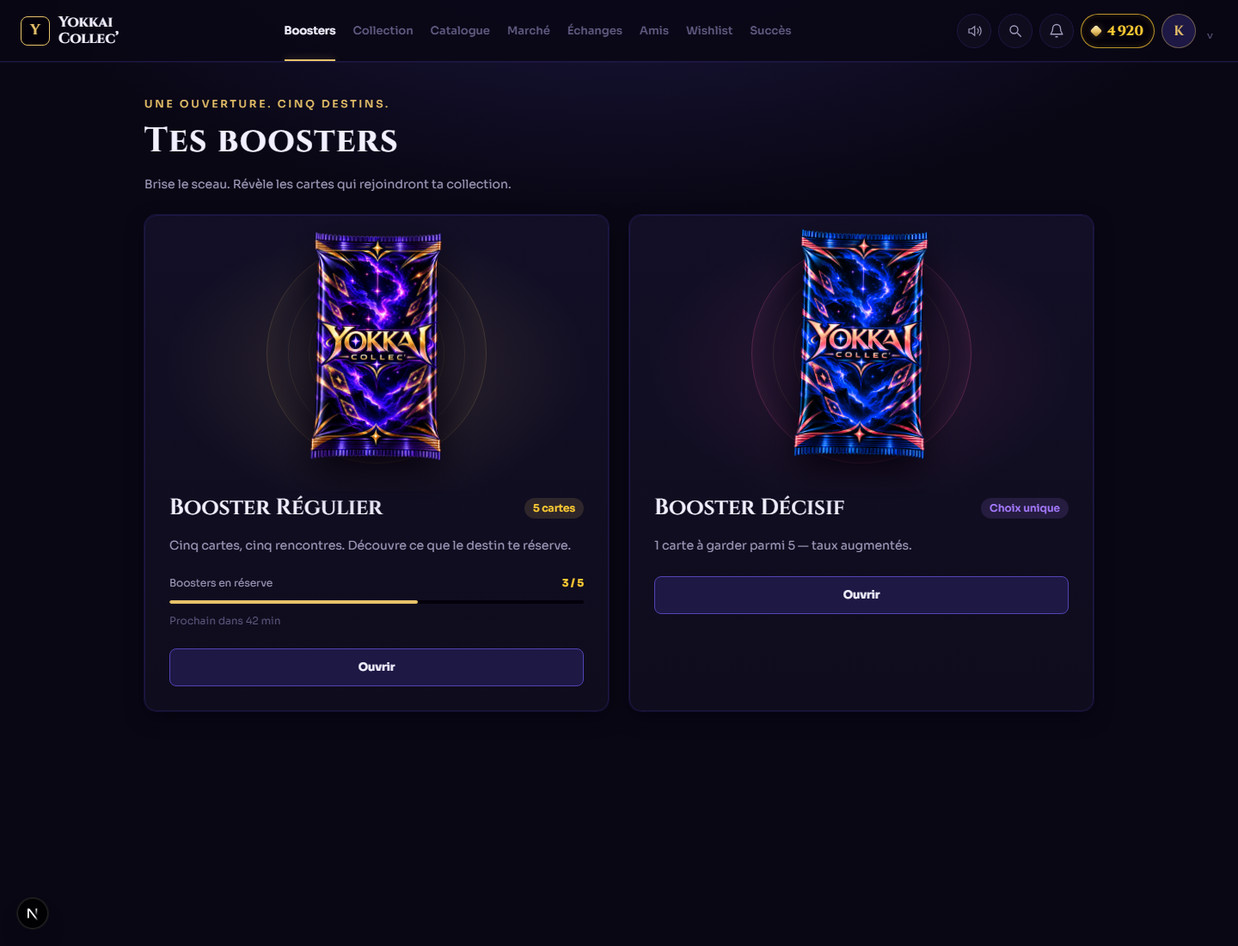
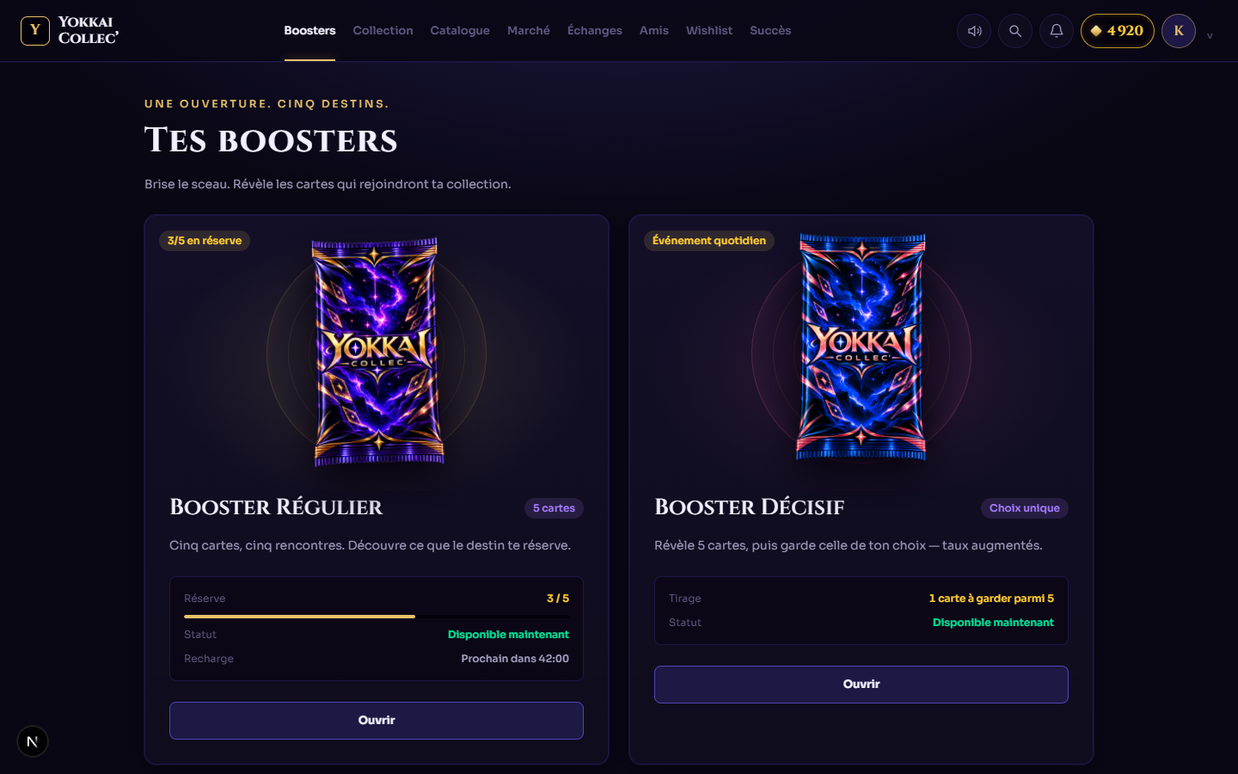
feat: redesign booster opening screens
Phase 5 · Boosters: dress the Regular and Decision pack openings and
finish the selection status cards, without touching the card component,
the flip, or the SR/SSR/LR reveal stages.

- Selection: "{n}/5 en réserve", "Disponible maintenant" / "Prochain
  dans", "1 carte à garder parmi 5", "Revient demain à {heure}"
- Opening: header with progress, 5 slots (3+2 on mobile), franchise
  under each revealed card, "Défausser" per card, "Ajouter à ma
  collection" enabled once all cards are revealed
- Decision: "Garder celle-ci" on each card, confirmation modal, final
  Karas message; no per-card discard
- Preview route simulates a full opening locally (no RPC)

diff --git a/components/boosters.tsx b/components/boosters.tsx
@@ -11,6 +11,15 @@ import type { SfxName } from "@/hooks/use-sfx";
 export type RevealCard = Card & { instanceId: string; shiny?: boolean; isEvolved?: boolean; isNew?: boolean; copies?: number; discarded?: boolean };
 type Sound = SfxName;
 const noopSound = () => {};
+// Formats the server-provided `nextPackAt`; the countdown itself stays computed by Game.
+function decisionReturnLabel(nextPackAt: number) {
+  const date = new Date(nextPackAt);
+  const time = date.toLocaleTimeString("fr-FR", { hour: "2-digit", minute: "2-digit" });
+  const days = Math.round((new Date(date).setHours(0, 0, 0, 0) - new Date().setHours(0, 0, 0, 0)) / 86_400_000);
+  if (days <= 0) return `Revient aujourd’hui à ${time}`;
+  if (days === 1) return `Revient demain à ${time}`;
+  return `Revient le ${date.toLocaleDateString("fr-FR", { day: "numeric", month: "long" })} à ${time}`;
+}
 type Decision = { onKeep: (instanceId: string) => Promise<number>; keptId?: string; busy?: boolean; karasReward?: number };
 
 export function BoosterReveal({ cards, revealed, onReveal, onReturn, onNext, nextDisabled = false, nextLabel = "Prochain booster", decision, onDiscard, onSound }: {
@@ -77,8 +86,9 @@ export function BoosterReveal({ cards, revealed, onReveal, onReturn, onNext, nex
     catch (e) { setError(e instanceof Error ? e.message : "Impossible de détruire cette carte."); }
     finally { setDiscarding(null); }
   }
-  return <section aria-label="Cartes du pack" className="mt-8">
-    <div><h2 className="font-display text-2xl">{decision ? "Un seul choix" : "Révèle tes cartes"}</h2><p role="status" aria-atomic="true" className="mt-2 text-sm text-ink-2">{done ? `${revealed} cartes révélées` : `Touche chaque carte pour la retourner · ${revealed} / ${cards.length}`}</p></div>
+  return <section aria-label="Cartes du pack" className="yk-reveal-screen">
+    <header className="yk-reveal-header"><div><p className="eyebrow">{decision ? "Booster Décisif" : "Booster Régulier"}</p><h2 className="mt-2 font-display text-2xl">{decision ? choosing ? "Fais ton choix décisif" : "Un seul choix" : "Révèle tes cartes"}</h2><p role="status" aria-atomic="true" className="mt-2 text-sm text-ink-2">{choosing ? "Toutes les cartes sont révélées · garde celle de ton choix" : done ? `${revealed} cartes révélées` : `Touche le paquet pour retourner chaque carte · ${revealed} / ${cards.length}`}</p></div>
+      <ol className="yk-reveal-progress" aria-hidden="true">{cards.map((card, i) => <li key={card.instanceId} className={i < revealed ? "yk-progress-done" : i === revealed ? "yk-progress-current" : undefined} />)}</ol></header>
     {!done && <div className={`yk-reveal-stage ${faceUp && current?.rarity === "SSR" ? "yk-reveal-ssr" : ""} ${faceUp && current?.rarity === "SR" ? "yk-reveal-sr" : ""} ${faceUp && current?.rarity === "LR" ? "yk-reveal-lr" : ""} ${faceUp && current?.shiny ? "yk-reveal-shiny" : ""}`}>
       {faceUp && current?.rarity === "SSR" && <p className="yk-callout yk-ssr-callout">✦ Rareté Exceptionnelle ✦</p>}
       {faceUp && current?.rarity === "LR" && <p className="yk-callout yk-lr-callout">✦ Invocation Légendaire ✦</p>}
@@ -223,23 +233,26 @@ export function BoosterReveal({ cards, revealed, onReveal, onReturn, onNext, nex
       </div>
       <p className="mt-8 text-center text-xs text-ink-3">{revealLocked ? "L’énergie s’accumule…" : faceUp ? "Touchez pour ranger la carte" : "Touchez le paquet pour révéler une carte"}</p>
     </div>}
-    {choosing && <div className="my-8 rounded-panel border border-rarity-ssr/40 bg-rarity-ssr/10 p-5 text-center"><p className="font-semibold text-rarity-ssr">Un seul choix</p><p className="mt-2 text-sm text-ink-2">Choisis la carte qui rejoindra ta collection — les {cards.length - 1} autres seront perdues.</p></div>}
-    <ol className="yk-reveal-grid">{cards.map((card,i) => {
+    {choosing && <div className="yk-decision-banner"><p className="font-display text-lg text-karas">Choisis ta carte décisive</p><p className="mt-1 text-sm text-ink-2">Une seule rejoindra ta collection — les {cards.length - 1} autres seront perdues.</p></div>}
+    <ol className={`yk-reveal-grid ${choosing ? "yk-reveal-grid-choosing" : ""}`}>{cards.map((card,i) => {
       const isDiscarded = discarded.has(card.instanceId);
       const lost = isDiscarded || (!!decision?.keptId && decision.keptId !== card.instanceId);
       const kept = decision?.keptId === card.instanceId;
-      return <li key={card.instanceId} className={`yk-reveal-slot ${i < revealed ? "yk-filled" : ""} ${pick === card.instanceId && choosing ? "yk-picked" : ""} ${lost ? "yk-lost" : ""}`}>
-        {i < revealed ? <><button type="button" disabled={!choosing || confirming || isDiscarded} aria-pressed={choosing ? pick === card.instanceId : undefined} aria-label={choosing ? `Choisir ${card.name}` : `${card.name}, ${card.rarity}`} onClick={() => setPick(card.instanceId)} className="block w-full rounded-card text-left disabled:cursor-default" style={choosing && pick && pick !== card.instanceId ? {opacity:.55} : undefined}><YokaiCard {...card} />{lost && <span className="yk-lost-stamp">{isDiscarded ? "DÉTRUITE" : "PERDUE"}</span>}</button><div className="mt-3 flex min-h-10 flex-wrap justify-center gap-1">{kept ? <StatusPill>GARDÉE</StatusPill> : choosing && pick === card.instanceId ? <StatusPill>À GARDER</StatusPill> : !isDiscarded && onDiscard ? <Button variant="danger" disabled={!!discarding} onClick={() => setDiscardCandidate(card)} className="px-4 py-2 text-xs">{discarding === card.instanceId ? "Destruction…" : "Détruire"}</Button> : card.isNew ? <StatusPill>NEW</StatusPill> : card.copies && card.copies > 1 ? <span className="text-[10px] text-ink-3">Doublon ×{card.copies}</span> : null}</div></> : <span className="yk-slot-number">{String(i + 1).padStart(2,"0")}</span>}
+      const franchise = card.anime?.trim() || card.category;
+      return <li key={card.instanceId} style={{ "--slot-i": i } as CSSProperties} className={`yk-reveal-slot ${i < revealed ? "yk-filled" : ""} ${i === revealed && !done ? "yk-slot-next" : ""} ${pick === card.instanceId && choosing ? "yk-picked" : ""} ${lost ? "yk-lost" : ""} ${kept ? "yk-kept" : ""}`}>
+        {i < revealed ? <><button type="button" disabled={!choosing || confirming || isDiscarded} aria-pressed={choosing ? pick === card.instanceId : undefined} aria-label={choosing ? `Choisir ${card.name}` : `${card.name}, ${card.rarity}`} onClick={() => setPick(card.instanceId)} className="yk-reveal-card block w-full rounded-card text-left disabled:cursor-default" style={choosing && pick && pick !== card.instanceId ? {opacity:.55} : undefined}><YokaiCard {...card} />{lost && <span className="yk-lost-stamp">{isDiscarded ? "DÉFAUSSÉE" : "PERDUE"}</span>}</button>
+          <p className="yk-reveal-caption" title={franchise}>{franchise}</p>
+          <div className="yk-reveal-actions">{kept ? <StatusPill>GARDÉE</StatusPill> : choosing ? <Button variant={pick === card.instanceId ? "primary" : "secondary"} disabled={decision.busy || confirming} onClick={() => { setPick(card.instanceId); setConfirm(true); }} className="yk-slot-button">Garder celle-ci</Button> : !isDiscarded && onDiscard ? <Button variant="danger" disabled={!!discarding} onClick={() => setDiscardCandidate(card)} className="yk-slot-button">{discarding === card.instanceId ? "Défausse…" : "Défausser"}</Button> : lost ? null : card.isNew ? <StatusPill>NEW</StatusPill> : card.copies && card.copies > 1 ? <span className="text-[10px] text-ink-3">Doublon ×{card.copies}</span> : null}</div></> : <span className="yk-slot-placeholder"><span className="yk-slot-number">{String(i + 1).padStart(2,"0")}</span><span className="yk-slot-hint">{i === revealed ? "Suivante" : "En attente"}</span></span>}
       </li>;
     })}</ol>
     {error && <p role="alert" className="mt-5 text-center text-sm text-danger">{error}</p>}
-    {choosing && <div className="mt-8 text-center"><Button disabled={!chosen || decision.busy || confirming} onClick={() => setConfirm(true)}>Garder cette carte</Button></div>}
-    {done && !choosing && <div className="mt-8 rounded-panel border border-veil bg-surface p-6 text-center"><h2 className="font-display text-2xl">{decision ? `Carte ajoutée à ta collection · +${decision.karasReward ?? 0} Karas depuis les cartes non conservées` : "L’invocation est complète"}</h2><div className="my-5 flex flex-wrap justify-center gap-2">{[...new Set(cards.map(c => c.rarity))].map(r => <StatusPill key={r}>{r} ×{cards.filter(c=>c.rarity===r).length}</StatusPill>)}</div>{cards.every(c => c.isNew !== undefined) && <p className="mb-5 text-sm text-ink-2">{cards.filter(c => c.isNew && (!decision || c.instanceId === decision.keptId)).length} nouvelle(s) carte(s)</p>}<div className="flex flex-wrap justify-center gap-3">{onNext&&<Button disabled={nextDisabled} onClick={onNext}>{nextLabel}</Button>}<Link ref={completeLink} href="/collection" className="yk-button yk-button-secondary">Voir ma collection</Link><Button variant="secondary" onClick={onReturn}>Retour aux boosters</Button></div></div>}
+    {!done && !decision && <div className="yk-reveal-footer"><Button disabled>Ajouter à ma collection</Button><p className="text-xs text-ink-3">Révèle les {cards.length} cartes pour valider ton booster.</p></div>}
+    {done && !choosing && <div className={`yk-reveal-summary ${decision ? "yk-reveal-summary-decision" : ""}`}><h2 className="font-display text-2xl">{decision ? `Carte ajoutée à ta collection · +${decision.karasReward ?? 0} Karas depuis les cartes non conservées` : "L’invocation est complète"}</h2><div className="my-5 flex flex-wrap justify-center gap-2">{[...new Set(cards.map(c => c.rarity))].map(r => <StatusPill key={r}>{r} ×{cards.filter(c=>c.rarity===r).length}</StatusPill>)}</div>{cards.every(c => c.isNew !== undefined) && <p className="mb-5 text-sm text-ink-2">{cards.filter(c => c.isNew && (!decision || c.instanceId === decision.keptId)).length} nouvelle(s) carte(s)</p>}<div className="flex flex-wrap justify-center gap-3"><Link ref={completeLink} href="/collection" className="yk-button yk-button-primary">{decision ? "Voir ma collection" : "Ajouter à ma collection"}</Link>{onNext&&<Button variant="secondary" disabled={nextDisabled} onClick={onNext}>{nextLabel}</Button>}<Button variant="secondary" onClick={onReturn}>Retour aux boosters</Button></div></div>}
     <Modal open={!!spot} onClose={() => setSpot(null)} title={spot?.shiny ? "✦ Invocation Shiny ✦" : "Invocation légendaire"} className={`yk-invocation ${spot?.shiny ? "yk-invocation-shiny" : ""}`}>
       {spot && <div className="relative z-10 flex flex-col items-center gap-6"><div className="yk-invoked-card"><YokaiCard {...spot} /></div><h3 className="font-display text-[clamp(28px,4vw,44px)]">{spot.name}</h3>{spot.isNew && <StatusPill>NEW</StatusPill>}<Button variant="secondary" onClick={() => setSpot(null)}>Toucher pour continuer</Button></div>}
     </Modal>
-    <Modal open={confirm} onClose={() => { if (!confirming) setConfirm(false); }} title={`Garder ${chosen?.name || "cette carte"} ?`}>{chosen && <><div className="mx-auto w-40"><YokaiCard {...chosen} /></div><p className="my-6 text-center text-sm text-ink-2">Garder définitivement cette carte et perdre les {cards.length - 1} autres ?</p>{error && <p role="alert" className="mb-4 text-danger">{error}</p>}<div className="flex flex-wrap justify-center gap-3"><Button variant="secondary" disabled={confirming} onClick={() => setConfirm(false)}>Retour</Button><Button disabled={decision?.busy || confirming} onClick={keep}>{confirming ? "Confirmation…" : "Confirmer mon choix"}</Button></div></>}</Modal>
-    <Modal open={!!discardCandidate} onClose={() => { if (!discarding) setDiscardCandidate(null); }} title="Détruire cette carte ?">{discardCandidate && <><p className="mb-6 text-sm text-ink-2">Cette action est définitive.</p><div className="flex justify-end gap-3"><Button variant="secondary" disabled={!!discarding} onClick={() => setDiscardCandidate(null)}>Annuler</Button><Button variant="danger" disabled={!!discarding} onClick={() => void discard(discardCandidate.instanceId)}>{discarding ? "Destruction…" : "Détruire"}</Button></div></>}</Modal>
+    <Modal open={confirm} onClose={() => { if (!confirming) setConfirm(false); }} title={`Garder ${chosen?.name || "cette carte"} ?`}>{chosen && <><div className="mx-auto w-40"><YokaiCard {...chosen} /></div><p className="mt-6 text-center font-semibold text-ink">Garder cette carte et perdre les {cards.length - 1} autres ?</p><p className="mb-6 mt-2 text-center text-xs text-ink-3">Ce choix est définitif.</p>{error && <p role="alert" className="mb-4 text-center text-danger">{error}</p>}<div className="flex flex-wrap justify-center gap-3"><Button variant="secondary" disabled={confirming} onClick={() => setConfirm(false)}>Revenir au choix</Button><Button disabled={decision?.busy || confirming} aria-busy={confirming || undefined} onClick={keep}>{confirming ? "Confirmation…" : "Garder cette carte"}</Button></div></>}</Modal>
+    <Modal open={!!discardCandidate} onClose={() => { if (!discarding) setDiscardCandidate(null); }} title="Défausser cette carte ?">{discardCandidate && <><div className="mx-auto w-32"><YokaiCard {...discardCandidate} /></div><p className="mb-6 mt-5 text-center text-sm text-ink-2">{discardCandidate.name} sera retirée de ta collection. Cette action est définitive.</p><div className="flex flex-wrap justify-center gap-3"><Button variant="secondary" disabled={!!discarding} onClick={() => setDiscardCandidate(null)}>Annuler</Button><Button variant="danger" disabled={!!discarding} aria-busy={!!discarding || undefined} onClick={() => void discard(discardCandidate.instanceId)}>{discarding ? "Défausse…" : "Défausser"}</Button></div></>}</Modal>
   </section>;
 }
 
@@ -277,12 +290,16 @@ export function Boosters({ status, countdown, decisionStatus, decisionCountdown,
     {tearing || busy ? <div className="yk-tearing-stage" role="status"><div className="yk-tearing-pack">
       {/* eslint-disable-next-line @next/next/no-img-element */}
       <img src="/assets/booster-pack.png" alt="" width={240} height={360} /></div><p className="mt-8 text-sm text-ink-2">Le sceau se brise…</p></div> : revealing ? <BoosterReveal key={draw[0].instanceId} cards={revealCards} revealed={revealed} onReveal={onReveal} onReturn={() => setShowDraw(false)} onNext={drawKind === "regular" ? () => start("regular") : undefined} nextDisabled={!status || status.available === 0 || busy} nextLabel={status?.available === 0 ? `Prochain dans ${countdown}` : "Prochain booster"} onDiscard={drawKind === "regular" ? onDiscard : undefined} decision={drawKind === "decision" ? { keptId, busy, karasReward: decisionKaras, onKeep: async id => { const reward = await onKeepDecision(id); setDecisionKaras(reward); setKeptId(id); return reward; } } : undefined} onSound={playSound} /> : <div className="yk-pack-grid">
-      <article className="yk-pack-panel"><div className="yk-pack-art-stage"><span className="yk-pack-orbit" />
+      <article className="yk-pack-panel"><div className="yk-pack-art-stage"><span className="yk-pack-badge"><StatusPill>{status ? `${status.available}/${status.maximum} en réserve` : "Réserve…"}</StatusPill></span><span className="yk-pack-orbit" />
         {/* eslint-disable-next-line @next/next/no-img-element */}
-        <img src="/assets/booster-pack.png" alt="Booster Régulier Yokkai Collec’" width={220} height={330} className="yk-pack-image" /></div><div className="p-7 pt-0"><div className="flex items-center justify-between gap-2"><h2 className="font-display text-[26px] font-semibold">Booster Régulier</h2><StatusPill>5 cartes</StatusPill></div><p className="mt-3 text-sm leading-6 text-ink-2">Cinq cartes, cinq rencontres. Découvre ce que le destin te réserve.</p><div className="mt-6 flex justify-between gap-3 text-xs"><span className="text-ink-2">Boosters en réserve</span><strong className="text-karas">{status ? `${status.available} / ${status.maximum}` : "—"}</strong></div><div className="my-3 h-1 overflow-hidden rounded-full bg-void"><div className="h-full rounded-full bg-accent-gold" style={{width:status && status.maximum ? `${status.available/status.maximum*100}%` : "0%"}} /></div><p className="mb-6 text-xs text-ink-3">{status ? status.nextPackAt === null ? "Ta réserve est pleine" : `Prochain dans ${countdown}` : "Chargement des boosters…"}</p><Button className="w-full" disabled={!status || status.available === 0 || busy} onClick={() => start("regular")}>{status?.available === 0 ? `Prochain dans ${countdown}` : "Ouvrir"}</Button></div></article>
-      <article className="yk-pack-panel yk-decision-panel"><div className="yk-pack-art-stage"><span className="yk-pack-orbit" />
+        <img src="/assets/booster-pack.png" alt="Booster Régulier Yokkai Collec’" width={220} height={330} className="yk-pack-image" /></div><div className="yk-pack-body"><div className="yk-pack-title"><h2 className="font-display text-[26px] font-semibold">Booster Régulier</h2><StatusPill tone="info">5 cartes</StatusPill></div><p className="mt-3 text-sm leading-6 text-ink-2">Cinq cartes, cinq rencontres. Découvre ce que le destin te réserve.</p>
+        <dl className="yk-pack-status"><div><dt>Réserve</dt><dd className="text-karas">{status ? `${status.available} / ${status.maximum}` : "—"}</dd></div><div className="yk-pack-gauge" aria-hidden="true"><span style={{width:status && status.maximum ? `${status.available/status.maximum*100}%` : "0%"}} /></div><div><dt>Statut</dt><dd className={!status ? "text-ink-3" : status.available > 0 ? "text-success" : "text-warning"}>{!status ? "Chargement des boosters…" : status.available > 0 ? "Disponible maintenant" : `Prochain dans ${countdown}`}</dd></div>{status && status.available > 0 && <div><dt>Recharge</dt><dd className="text-ink-2">{status.nextPackAt === null ? "Réserve pleine" : `Prochain dans ${countdown}`}</dd></div>}</dl>
+        <Button className="w-full" disabled={!status || status.available === 0 || busy} onClick={() => start("regular")}>{status?.available === 0 ? `Prochain dans ${countdown}` : "Ouvrir"}</Button></div></article>
+      <article className="yk-pack-panel yk-decision-panel"><div className="yk-pack-art-stage"><span className="yk-pack-badge"><StatusPill>Événement quotidien</StatusPill></span><span className="yk-pack-orbit" />
         {/* eslint-disable-next-line @next/next/no-img-element */}
-        <img src="/assets/booster-pack.png" alt="Booster Décisif" width={220} height={330} className="yk-pack-image yk-decision-image" /></div><div className="p-7 pt-0"><div className="flex items-center justify-between gap-2"><h2 className="font-display text-[26px] font-semibold">Booster Décisif</h2><StatusPill tone="info">Choix unique</StatusPill></div><p className="mt-3 text-sm leading-6 text-ink-2">1 carte à garder parmi 5 — taux augmentés.</p><Button disabled={!decisionStatus || (!decisionStatus.available && decisionStatus.pending.length === 0) || busy} onClick={() => start("decision")} className="mt-6 w-full">{decisionStatus?.pending.length ? "Reprendre mon choix" : decisionStatus?.available ? "Ouvrir" : `Revient dans ${decisionCountdown}`}</Button></div></article>
+        <img src="/assets/booster-pack.png" alt="Booster Décisif" width={220} height={330} className="yk-pack-image yk-decision-image" /></div><div className="yk-pack-body"><div className="yk-pack-title"><h2 className="font-display text-[26px] font-semibold">Booster Décisif</h2><StatusPill tone="info">Choix unique</StatusPill></div><p className="mt-3 text-sm leading-6 text-ink-2">Révèle 5 cartes, puis garde celle de ton choix — taux augmentés.</p>
+        <dl className="yk-pack-status"><div><dt>Tirage</dt><dd className="text-karas">1 carte à garder parmi 5</dd></div><div><dt>Statut</dt><dd className={!decisionStatus ? "text-ink-3" : decisionStatus.pending.length ? "text-karas" : decisionStatus.available ? "text-success" : "text-warning"} suppressHydrationWarning>{!decisionStatus ? "Chargement…" : decisionStatus.pending.length ? "Choix en attente" : decisionStatus.available ? "Disponible maintenant" : decisionReturnLabel(decisionStatus.nextPackAt)}</dd></div></dl>
+        <Button disabled={!decisionStatus || (!decisionStatus.available && decisionStatus.pending.length === 0) || busy} onClick={() => start("decision")} className="w-full">{decisionStatus?.pending.length ? "Reprendre mon choix" : decisionStatus?.available ? "Ouvrir" : `Revient dans ${decisionCountdown}`}</Button></div></article>
     </div>}
   </>;
 }

diff --git a/styles/boosters.css b/styles/boosters.css
@@ -137,13 +137,62 @@
 .yk-lr-stardust-ring { position: absolute; left: 50%; top: 48%; width: 0; height: 0; z-index: 3; pointer-events: none; }
 .yk-lr-stardust { position: absolute; left: 0; top: 0; width: 3.5px; height: 3.5px; border-radius: 50%; background: #fff4b8; box-shadow: 0 0 10px #ffd700; opacity: 0; transform: rotate(var(--star-angle)) translate(var(--star-dist)) rotate(calc(-1 * var(--star-angle))); animation: yk-lr-stardust-orbit 3s calc(3.5s + var(--star-delay)) ease-in-out infinite alternate both; }
 
-.yk-reveal-grid { display: grid; grid-template-columns: repeat(5,minmax(0,1fr)); gap: 24px 16px; max-width: 820px; margin: 20px auto 0; }
-.yk-reveal-slot { position: relative; min-width: 0; aspect-ratio: 5 / 7; border: 1px dashed var(--color-veil-strong); border-radius: 12px; display: grid; place-items: center; }
-.yk-filled { display: block; border: none; animation: yk-drop .55s var(--ease-yokkai); }
+/* Reveal screen dressing (layout, slots, actions). The deck, flip and SR/SSR/LR stages above stay untouched. */
+.yk-reveal-screen { margin-top: var(--layout-gutter); }
+.yk-reveal-header { display: flex; flex-wrap: wrap; align-items: flex-end; justify-content: space-between; gap: var(--layout-gutter-compact); padding-bottom: var(--layout-gutter-compact); border-bottom: 1px solid var(--color-veil); }
+.yk-reveal-progress { display: flex; gap: calc(var(--spacing) * 1.5); }
+.yk-reveal-progress li { width: var(--booster-progress-dot); height: calc(var(--booster-progress-dot) / 3); border-radius: var(--radius-pill); background: var(--color-veil); transition: background var(--duration-fast) var(--ease-standard),box-shadow var(--duration-fast) var(--ease-standard); }
+.yk-reveal-progress .yk-progress-done { background: var(--color-accent-gold); }
+.yk-reveal-progress .yk-progress-current { background: var(--color-focus); box-shadow: var(--shadow-chip); }
+.yk-decision-banner { max-width: var(--booster-reveal-max); margin: var(--layout-gutter) auto 0; padding: var(--layout-gutter-compact) var(--layout-gutter); border: 1px solid color-mix(in srgb,var(--color-karas) 35%,transparent); border-radius: var(--radius-panel); background: color-mix(in srgb,var(--color-karas) 8%,var(--color-surface)); box-shadow: var(--shadow-gold); text-align: center; }
+.yk-reveal-grid { display: grid; grid-template-columns: repeat(5,minmax(0,1fr)); gap: var(--layout-gutter) var(--booster-reveal-gap); max-width: var(--booster-reveal-max); margin: var(--layout-gutter) auto 0; }
+.yk-reveal-slot { position: relative; min-width: 0; display: flex; flex-direction: column; align-items: stretch; animation: yk-slot-enter var(--duration-normal) var(--ease-standard) both; animation-delay: calc(var(--stagger-item) * var(--slot-i, 0)); }
+.yk-slot-placeholder { aspect-ratio: 5 / 7; display: flex; flex-direction: column; align-items: center; justify-content: center; gap: calc(var(--spacing) * 2); border: 1px dashed var(--color-veil-strong); border-radius: var(--radius-card); background: color-mix(in srgb,var(--color-surface) 60%,transparent); transition: border-color var(--duration-fast) var(--ease-standard),box-shadow var(--duration-fast) var(--ease-standard); }
+.yk-slot-next .yk-slot-placeholder { border-style: solid; border-color: var(--color-focus); box-shadow: var(--shadow-chip); }
 .yk-slot-number { color: var(--color-ink-3); font-family: var(--font-display); font-size: 24px; }
-.yk-picked { transform: translateY(-10px) scale(1.04); outline: 2px solid var(--color-accent-gold); outline-offset: 4px; box-shadow: var(--shadow-gold); }
+.yk-slot-next .yk-slot-number { color: var(--color-ink); }
+.yk-slot-hint { color: var(--color-ink-3); font-size: 10px; font-weight: 600; letter-spacing: .12em; text-transform: uppercase; }
+.yk-slot-next .yk-slot-hint { color: var(--color-accent-neon); }
+.yk-filled { animation: yk-drop .55s var(--ease-yokkai); }
+.yk-reveal-card { position: relative; transition: opacity var(--duration-fast) var(--ease-standard); }
+.yk-reveal-caption { margin-top: calc(var(--spacing) * 2); overflow: hidden; color: var(--color-ink-2); font-size: 12px; text-align: center; text-overflow: ellipsis; white-space: nowrap; }
+.yk-reveal-actions { display: flex; min-height: 44px; margin-top: calc(var(--spacing) * 2); flex-wrap: wrap; align-items: flex-start; justify-content: center; gap: calc(var(--spacing) * 1); }
+.yk-slot-button { width: 100%; min-height: 36px; padding: calc(var(--spacing) * 2) calc(var(--spacing) * 2); font-size: 12px; }
+.yk-reveal-grid-choosing .yk-slot-button.yk-button-primary { border-color: var(--color-accent-gold); box-shadow: var(--shadow-gold); }
+.yk-picked { transform: translateY(-10px); }
+.yk-picked .yk-reveal-card { outline: 2px solid var(--color-accent-gold); outline-offset: 4px; box-shadow: var(--shadow-gold); }
+.yk-kept .yk-reveal-card { outline: 2px solid var(--color-accent-gold); outline-offset: 4px; box-shadow: var(--shadow-gold); }
 .yk-lost .yk-card { filter: grayscale(1) brightness(.6); opacity: .3; transform: scale(.92); }
+.yk-lost .yk-reveal-caption { color: var(--color-ink-3); }
 .yk-lost-stamp { position: absolute; left: 10%; right: 10%; top: 45%; padding: 8px; border: 2px solid var(--color-danger); color: var(--color-danger); transform: rotate(-15deg); font-size: clamp(9px,1.5vw,18px); font-weight: 700; text-align: center; letter-spacing: .12em; }
+.yk-reveal-footer { display: flex; flex-direction: column; align-items: center; gap: calc(var(--spacing) * 2); margin-top: var(--layout-gutter); padding-top: var(--layout-gutter); border-top: 1px solid var(--color-veil); text-align: center; }
+.yk-reveal-summary { max-width: var(--booster-reveal-max); margin: calc(var(--layout-gutter) * 1.5) auto 0; padding: var(--layout-gutter); border: 1px solid var(--color-veil); border-radius: var(--radius-panel); background: linear-gradient(180deg,color-mix(in srgb,var(--color-veil) 24%,var(--color-surface)),var(--color-surface)); box-shadow: var(--shadow-card); text-align: center; }
+.yk-reveal-summary-decision { border-color: color-mix(in srgb,var(--color-karas) 35%,transparent); box-shadow: var(--shadow-card),var(--shadow-gold); }
+.yk-reveal-summary-decision h2 { color: var(--color-karas); }
+.yk-pack-badge { position: absolute; z-index: 2; top: var(--layout-gutter-compact); left: var(--layout-gutter-compact); }
+.yk-pack-body { padding: 0 calc(var(--layout-gutter) + .25rem) calc(var(--layout-gutter) + .25rem); }
+.yk-pack-title { display: flex; align-items: center; justify-content: space-between; gap: calc(var(--spacing) * 2); }
+.yk-pack-title > span { flex-shrink: 0; white-space: nowrap; }
+.yk-pack-status { display: grid; gap: calc(var(--spacing) * 2.5); margin: var(--layout-gutter) 0; padding: var(--layout-gutter-compact); border: 1px solid var(--color-veil); border-radius: var(--radius-input); background: color-mix(in srgb,var(--color-void) 45%,transparent); font-size: 12px; }
+.yk-pack-status > div:not(.yk-pack-gauge) { display: flex; justify-content: space-between; gap: calc(var(--spacing) * 3); }
+.yk-pack-status dt { color: var(--color-ink-3); }
+.yk-pack-status dd { font-weight: 600; text-align: right; font-variant-numeric: tabular-nums; }
+.yk-pack-gauge { height: 4px; overflow: hidden; border-radius: var(--radius-pill); background: var(--color-void); }
+.yk-pack-gauge span { display: block; height: 100%; border-radius: inherit; background: var(--color-accent-gold); transition: width var(--duration-normal) var(--ease-standard); }
+@keyframes yk-slot-enter { from { opacity: 0; transform: translateY(10px); } to { opacity: 1; transform: none; } }
+@media (max-width: 40rem) {
+  .yk-reveal-header { align-items: flex-start; }
+  .yk-reveal-grid { grid-template-columns: repeat(6,minmax(0,1fr)); gap: var(--layout-gutter-compact) var(--booster-reveal-gap-compact); }
+  .yk-reveal-slot { grid-column: span 2; }
+  .yk-reveal-slot:nth-child(4) { grid-column: 2 / span 2; }
+  .yk-slot-button { padding-inline: calc(var(--spacing) * 1); font-size: 11px; white-space: nowrap; }
+  .yk-reveal-summary { padding: var(--layout-gutter-compact); }
+  .yk-reveal-summary .yk-button { width: 100%; }
+}
+@media (prefers-reduced-motion: reduce) {
+  .yk-reveal-slot { animation: none; }
+  .yk-picked { transform: none; }
+}
 .yk-callout { position: absolute; top: 15px; color: var(--color-rarity-ssr); font-family: var(--font-display); font-size: 22px; text-shadow: 0 0 24px var(--color-rarity-ssr); }
 .yk-burst { position: absolute; z-index: 1; left: 50%; top: 44%; width: min(620px,105vw); height: 300px; translate: -50% -50%; pointer-events: none; opacity: 0; background: linear-gradient(115deg,transparent 26%,color-mix(in srgb,var(--color-accent-gold) 32%,transparent) 27% 29%,transparent 30%),linear-gradient(70deg,transparent 62%,color-mix(in srgb,var(--color-accent-gold) 24%,transparent) 63% 65%,transparent 66%); filter: blur(2px); animation: yk-burst .95s ease-out both; }
 .yk-burst::before,.yk-burst::after { content: ''; position: absolute; left: 8%; right: 8%; top: 48%; height: 1px; background: linear-gradient(90deg,transparent,var(--color-accent-gold),transparent); transform: rotate(-14deg) scaleX(.2); animation: yk-light-cut .9s ease-out both; }.yk-burst::after { top: 58%; transform: rotate(17deg) scaleX(.2); animation-delay: .1s; }
@@ -381,7 +430,7 @@
   100% { opacity: 1; transform: translateY(0) scale(1); }
 }
 
-@media (max-width: 540px) { .yk-reveal-grid { gap: 18px 7px; } .yk-pack-art-stage { height: 290px; } .yk-callout { font-size: 18px; } }
+@media (max-width: 540px) { .yk-pack-art-stage { height: 290px; } .yk-callout { font-size: 18px; } }
 @media (prefers-reduced-motion: reduce) {
   .yk-tearing-pack,.yk-face-up,.yk-stacked-back { transform: none !important; }
   .yk-burst,.yk-sr-flash,.yk-reveal-rays,.yk-reveal-particles,.yk-ssr-cinematic-stage,.yk-lr-cinematic-stage,.yk-tearing-stage::after,.yk-invocation::before,.yk-invocation::after,.yk-reveal-shiny::after { display: none; }

diff --git a/components/boosters-preview.tsx b/components/boosters-preview.tsx
@@ -1,21 +1,41 @@
 "use client";
 
-import { Boosters } from "@/components/boosters";
+import { useState } from "react";
+import { Boosters, type RevealCard } from "@/components/boosters";
+import type { Rarity } from "@/lib/data/cards";
+
+// Local-only simulation: no RPC, so the complete opening flow (including SSR/LR
+// reveals) can be exercised in a browser without consuming a real pack.
+const draws: Record<"regular" | "decision", [string, Rarity, boolean?][]> = {
+  regular: [["Kappa ancien", "C"], ["Tanuki solaire", "R"], ["Tengu des brumes", "SR"], ["Oni écarlate", "SSR"], ["Kitsune céleste", "LR"]],
+  decision: [["Kappa ancien", "R"], ["Tengu des brumes", "SR"], ["Yuki-Onna", "SR"], ["Oni écarlate", "SSR", true], ["Tanuki solaire", "SR"]],
+};
+const franchises = ["Spirit Realm", "Mononoke Chronicles", "Hyakki Yagyō", "Spirit Realm", "Moonlit Shrine"];
 
 export function BoostersPreview() {
+  const [draw, setDraw] = useState<RevealCard[]>([]);
+  const [drawKind, setDrawKind] = useState<"regular" | "decision">("regular");
+  const [revealed, setRevealed] = useState(0);
+  const [reserve, setReserve] = useState(3);
+  const [decisionUsed, setDecisionUsed] = useState(false);
+  const [decisionReturn] = useState(() => new Date().setHours(24, 0, 0, 0));
   return <Boosters
-    status={{ available: 3, maximum: 5, nextPackAt: 4_102_444_800_000 }}
-    countdown="42 min"
-    decisionStatus={{ available: true, pending: [], nextPackAt: 4_102_444_800_000 }}
-    decisionCountdown="6 j"
+    status={{ available: reserve, maximum: 5, nextPackAt: 4_102_444_800_000 }}
+    countdown="42:00"
+    decisionStatus={{ available: !decisionUsed, pending: [], nextPackAt: decisionReturn }}
+    decisionCountdown="08:00:00"
     busy={false}
-    draw={[]}
-    drawKind="regular"
+    draw={draw}
+    drawKind={drawKind}
     collection={[]}
-    revealed={0}
-    onOpen={async () => {}}
-    onKeepDecision={async () => 0}
+    revealed={revealed}
+    onOpen={async kind => {
+      if (kind === "regular") setReserve(current => Math.max(0, current - 1)); else setDecisionUsed(true);
+      setDrawKind(kind); setRevealed(0);
+      setDraw(draws[kind].map(([name, rarity, shiny], index) => ({ id: `preview-${kind}-${index}`, instanceId: `preview-${kind}-${index}-${Date.now()}`, name, category: "Anime", anime: franchises[index], rarity, image: "/assets/booster-pack.png", shiny })));
+    }}
+    onKeepDecision={async () => 180}
     onDiscard={async () => {}}
-    onReveal={() => {}}
+    onReveal={index => setRevealed(current => current === index ? current + 1 : current)}
   />;
 }

diff --git a/tailwind.config.ts b/tailwind.config.ts
@@ -45,6 +45,10 @@ const config = {
       ['--booster-orbit-size', '16rem'],
       ['--booster-pack-width', '11.25rem'],
       ['--booster-pack-height', '16.875rem'],
+      ['--booster-reveal-max', '52rem'],
+      ['--booster-reveal-gap', '1rem'],
+      ['--booster-reveal-gap-compact', '0.625rem'],
+      ['--booster-progress-dot', '1.5rem'],
     ]) });
   })],
 };

diff --git a/docs/design/comportements-non-implementes.md b/docs/design/comportements-non-implementes.md
@@ -24,3 +24,7 @@ Cette liste conserve des idées présentes dans les maquettes Gemini. Elle ne co
 | Choisir le tri de la Collection ; nécessite un paramètre de tri transmis à la requête paginée, ou un tri client seulement si l’intégralité des cartes est déjà chargée | Révision Phase 3 |
 | Choisir le nombre de cartes par page ; nécessite un paramètre de taille de page partagé par la requête, le calcul du nombre de pages et la pagination | Révision Phase 3 |
 | Choisir le nombre de cartes par page dans le Catalogue ; nécessite d’exposer la taille choisie à `getCataloguePage`, puis de la partager avec le calcul du nombre de pages et la pagination serveur | Phase 4 · Catalogue |
+| Faire de « Ajouter à ma collection » une validation réelle du Regular Pack ; aujourd’hui les cartes sont déjà enregistrées par `openBooster` à l’ouverture, le bouton est donc un lien vers la Collection (désactivé tant que les 5 cartes ne sont pas révélées) | Phase 5 · Boosters |
+| Afficher le gain « Défausser (+X Karas) » sous chaque carte ; nécessite d’exposer la valeur de défausse par carte avant l’action (`discardPackCard` ne renvoie que le solde final) | Phase 5 · Boosters, `docs/groupe-2-boosters.md` |
+| Annoncer le montant de Karas dans la modale de confirmation du Booster Décisif ; le montant n’est connu qu’après `keepDecisionPackCard` | Phase 5 · Boosters, `docs/groupe-2-boosters.md` |
+| Révéler en touchant directement chacune des 5 cartes de la rangée ; la révélation passe aujourd’hui par le paquet, qui porte le flip et les reveals SR/SSR/LR figés | Phase 5 · Boosters |
